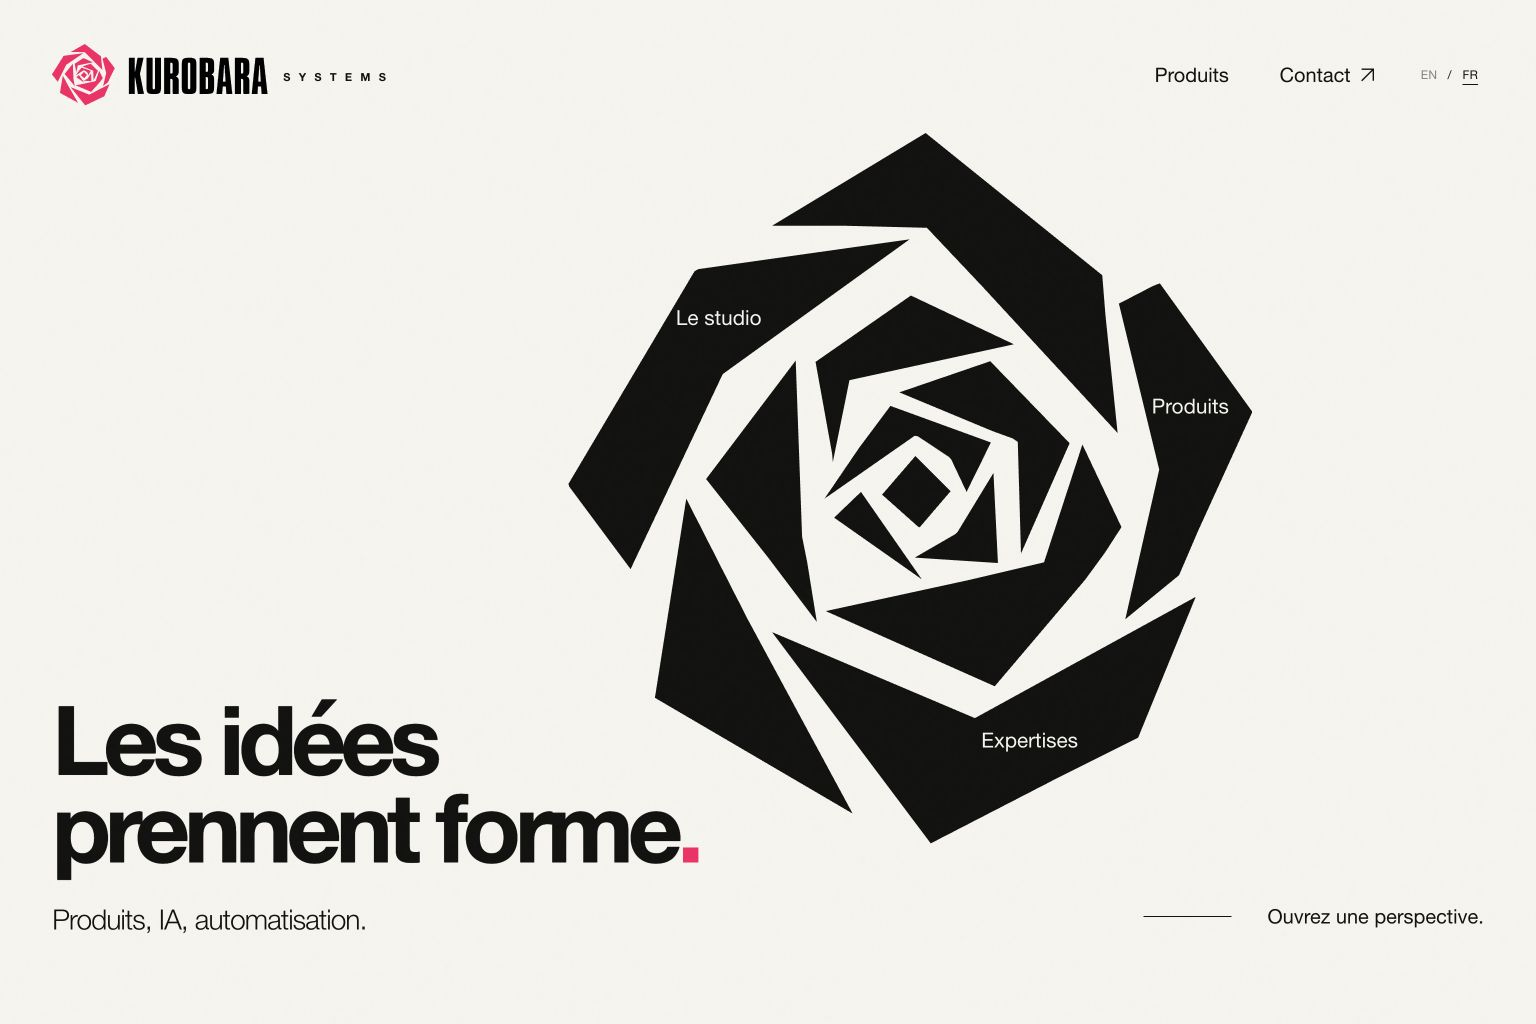
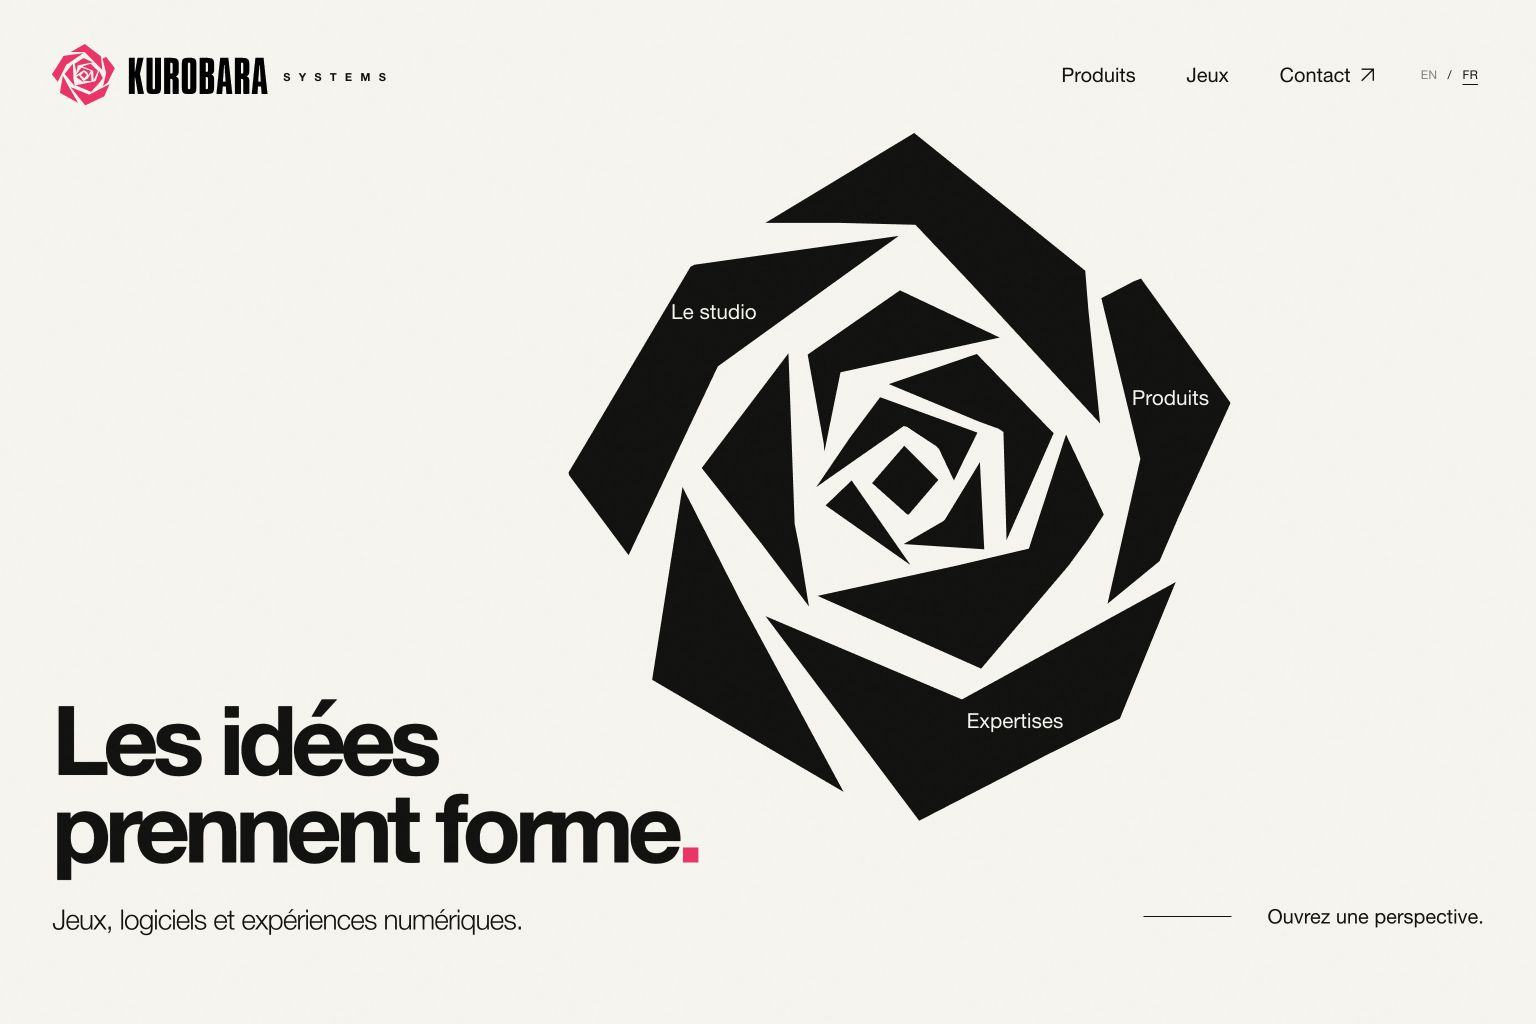
Focus Studio copy on games, software and digital experiences (#13)
Update the bilingual Studio introduction, SEO and social metadata. Refresh both Studio social screenshots and version their URLs using content digests.

Validation: clean install, full dependency audit with zero vulnerabilities, Biome, typecheck, 29 tests, production build, Docker/HTTP qualification, dependency review and CodeQL passed.

diff --git a/src/i18n.ts b/src/i18n.ts
@@ -217,22 +217,24 @@ const en: Copy = {
     openPerspective: "Open a perspective.",
     openRose: "Open the rose",
     secondTitleLine: "take shape",
-    strapline: "Products, AI, automation.",
+    strapline: "Games, software and digital experiences.",
     titlePunctuation: ".",
   },
   metadata: {
     locale: "en_US",
     pageDescription:
-      "Independent digital product and systems studio. Products, AI, automation. By Léandre.",
+      "Independent studio creating games, software and digital experiences. By Léandre.",
     productDescription:
       "Open source B2B prospecting. From market criteria to an actionable list.",
     socialDescription:
-      "Products, AI, automation. An independent studio by Léandre.",
-    socialImage: "https://kurobara.systems/assets/social/og-studio-en.jpg",
+      "Games, software and digital experiences. An independent studio by Léandre.",
+    socialImage:
+      "https://kurobara.systems/assets/social/og-studio-en.jpg?v=15eb58b2beb2",
     socialImageAlt:
       "Kurobara Systems. Ideas take shape. A geometric black rose on an ivory background.",
     twitterImageAlt: "The geometric rose of Kurobara Systems.",
-    websiteDescription: "Independent digital product and systems studio.",
+    websiteDescription:
+      "Independent studio creating games, software and digital experiences.",
   },
   mobileMenu: {
     closeRose: "Close the rose",
@@ -366,23 +368,24 @@ const fr: Copy = {
     openPerspective: "Ouvrez une perspective.",
     openRose: "Ouvrir la rose",
     secondTitleLine: "prennent forme",
-    strapline: "Produits, IA, automatisation.",
+    strapline: "Jeux, logiciels et expériences numériques.",
     titlePunctuation: ".",
   },
   metadata: {
     locale: "fr_FR",
     pageDescription:
-      "Studio indépendant de produits et de systèmes numériques. Produits, IA, automatisation. Par Léandre.",
+      "Studio indépendant de jeux, de logiciels et d’expériences numériques. Par Léandre.",
     productDescription:
       "La prospection B2B en open source. Des critères de marché à une liste exploitable.",
     socialDescription:
-      "Produits, IA, automatisation. Un studio indépendant par Léandre.",
-    socialImage: "https://kurobara.systems/assets/social/og-studio-fr.jpg",
+      "Jeux, logiciels et expériences numériques. Un studio indépendant par Léandre.",
+    socialImage:
+      "https://kurobara.systems/assets/social/og-studio-fr.jpg?v=19ee589f5771",
     socialImageAlt:
       "Kurobara Systems. Les idées prennent forme. Une rose géométrique noire sur fond ivoire.",
     twitterImageAlt: "La rose géométrique de Kurobara Systems.",
     websiteDescription:
-      "Studio indépendant de produits et de systèmes numériques.",
+      "Studio indépendant de jeux, de logiciels et d’expériences numériques.",
   },
   mobileMenu: {
     closeRose: "Refermer la rose",

diff --git a/index.html b/index.html
@@ -7,7 +7,7 @@
       Kurobara Systems - Ideas take shape.
     </title>
     <meta
-      content="Independent digital product and systems studio. Products, AI, automation. By Léandre."
+      content="Independent studio creating games, software and digital experiences. By Léandre."
       data-i18n-content="metadata.pageDescription"
       name="description"
     >
@@ -40,13 +40,13 @@
       property="og:title"
     >
     <meta
-      content="Products, AI, automation. An independent studio by Léandre."
+      content="Games, software and digital experiences. An independent studio by Léandre."
       data-i18n-content="metadata.socialDescription"
       property="og:description"
     >
     <meta content="https://kurobara.systems/" property="og:url">
     <meta
-      content="https://kurobara.systems/assets/social/og-studio-en.jpg"
+      content="https://kurobara.systems/assets/social/og-studio-en.jpg?v=15eb58b2beb2"
       data-i18n-content="metadata.socialImage"
       property="og:image"
     >
@@ -65,12 +65,12 @@
       name="twitter:title"
     >
     <meta
-      content="Products, AI, automation. An independent studio by Léandre."
+      content="Games, software and digital experiences. An independent studio by Léandre."
       data-i18n-content="metadata.socialDescription"
       name="twitter:description"
     >
     <meta
-      content="https://kurobara.systems/assets/social/og-studio-en.jpg"
+      content="https://kurobara.systems/assets/social/og-studio-en.jpg?v=15eb58b2beb2"
       data-i18n-content="metadata.socialImage"
       name="twitter:image"
     >
@@ -98,7 +98,7 @@
       "@id": "https://kurobara.systems/#website",
       "url": "https://kurobara.systems/",
       "name": "Kurobara Systems",
-      "description": "Independent digital product and systems studio.",
+      "description": "Independent studio creating games, software and digital experiences.",
       "inLanguage": "en",
       "publisher": {
         "@id": "https://kurobara.systems/#organization"
@@ -354,7 +354,9 @@
               ></span
             >
           </h1>
-          <p data-i18n="home.strapline">Products, AI, automation.</p>
+          <p data-i18n="home.strapline">
+            Games, software and digital experiences.
+          </p>
           <button
             aria-controls="rose-menu"
             aria-expanded="false"
